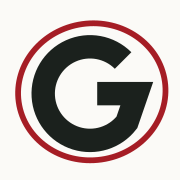
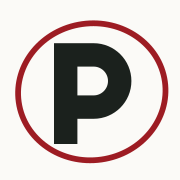
Rename the product to Polo
User-facing name, page and home-screen titles, PWA manifest, share-card
footer and wordmark now say Polo; the icon is a constructed P with the
pencil ring (placeholder until the designer's mark). Storage keys,
migrations and infrastructure names keep cardi-golf so no device loses
its session or unsynced scores. Docs, handoff and the logo brief follow.

Claude-Session: https://claude.ai/code/session_016392uNzETBrkWEz23abNrD

Changed region(s): [[0.1667, 0.1944, 0.8611, 0.8611]]

diff --git a/index.html b/index.html
@@ -10,7 +10,7 @@
     <meta name="color-scheme" content="light" />
     <meta name="apple-mobile-web-app-capable" content="yes" />
     <meta name="apple-mobile-web-app-status-bar-style" content="black-translucent" />
-    <meta name="apple-mobile-web-app-title" content="Cardi-Golf" />
+    <meta name="apple-mobile-web-app-title" content="Polo" />
     <meta name="mobile-web-app-capable" content="yes" />
     <meta
       name="description"
@@ -18,7 +18,7 @@
     />
     <link rel="icon" href="/favicon.svg" type="image/svg+xml" />
     <link rel="apple-touch-icon" href="/apple-touch-icon.png" />
-    <title>Cardi-Golf</title>
+    <title>Polo</title>
   </head>
   <body>
     <div id="root"></div>

diff --git a/src/components/primitives.tsx b/src/components/primitives.tsx
@@ -313,12 +313,11 @@ export function EventName({ name, tagline, logoUrl, small }: { name: string; tag
 }
 export function Wordmark({ size = 24 }: { size?: number }) {
   return (
-    <span className={s.wordmark} style={{ fontSize: size }} aria-label="Cardi-Golf">
-      Cardi-
-      <span className={s.wordmarkG}>
-        <span className={s.wordmarkRing} aria-hidden="true" />G
+    <span className={s.wordmark} style={{ fontSize: size }} aria-label={t.app.name}>
+      <span className={s.wordmarkInitial}>
+        <span className={s.wordmarkRing} aria-hidden="true" />P
       </span>
-      olf
+      olo
     </span>
   )
 }

diff --git a/vite.config.ts b/vite.config.ts
@@ -17,8 +17,8 @@ export default defineConfig({
       includeAssets: ['favicon.svg', 'apple-touch-icon.png', 'icons/*.png'],
       manifest: {
         id: '/',
-        name: 'Cardi-Golf',
-        short_name: 'Cardi-Golf',
+        name: 'Polo',
+        short_name: 'Polo',
         description:
           'Torneos de golf entre amigos: marcador en vivo, juegos, Calcutta y dinero.',
         lang: 'es-MX',

diff --git a/src/components/ShareCard.tsx b/src/components/ShareCard.tsx
@@ -75,7 +75,7 @@ function Card({ what }: { what: ShareKind }) {
   const footer = (
     <div className={styles.footer}>
       <span>{new Date().toLocaleDateString('es-MX', { day: 'numeric', month: 'short', year: 'numeric' })}</span>
-      <span className={styles.brand}>Cardi-Golf</span>
+      <span className={styles.brand}>{t.app.name}</span>
     </div>
   )
   if (what.kind === 'leaderboard') {

diff --git a/src/components/primitives.module.css b/src/components/primitives.module.css
@@ -555,13 +555,14 @@
   display: inline-flex;
   align-items: baseline;
 }
-.wordmarkG {
+.wordmarkInitial {
   position: relative;
   display: inline-block;
+  margin-left: 0.1em;
 }
 .wordmarkRing {
   position: absolute;
-  inset: -0.14em -0.1em -0.1em -0.08em;
+  inset: -0.14em -0.16em -0.1em -0.12em;
   border: 0.06em solid var(--under);
   border-radius: 50%;
   transform: rotate(-6deg);

diff --git a/src/screens/HomeScreen.tsx b/src/screens/HomeScreen.tsx
@@ -9,7 +9,7 @@ import { useAuth } from '../data/auth'
 import styles from './HomeScreen.module.css'
 
 /**
- * `/`: one line on what Cardi-Golf does, then the fastest way in. A returning
+ * `/`: one line on what Polo does, then the fastest way in. A returning
  * player sees their tournament first; everyone else sees the code field.
  * Organizers get one quiet link.
  */

diff --git a/src/styles/tokens.css b/src/styles/tokens.css
@@ -1,5 +1,5 @@
 /*
-  Cardi-Golf design tokens: direction A, "La tarjeta" (DESIGN_DIRECTION.md).
+  Polo design tokens: direction A, "La tarjeta" (DESIGN_DIRECTION.md).
   One source of truth for color, type, spacing (4/8), radius, borders,
   elevation and motion. Nothing outside this file may declare a color;
   src/styles/no-literal-colors.test.ts enforces it.

diff --git a/src/i18n/es-MX.ts b/src/i18n/es-MX.ts
@@ -9,7 +9,7 @@
  */
 export const t = {
   app: {
-    name: 'Cardi-Golf',
+    name: 'Polo',
     tagline: 'Torneos de golf entre amigos',
     description: 'Marcador en vivo, juegos, Calcutta y cuentas claras para torneos entre amigos.',
   },

diff --git a/docs/handoff.md b/docs/handoff.md
@@ -24,10 +24,15 @@ Each item says **what**, **the exact steps**, and **how Claude will verify it**.
 - ~~**Llaves para esta sesión.**~~ Diego pegó las llaves; quedaron en `.env.local` (ignorado por git). La `SUPABASE_SECRET_KEY` llegó truncada (32 de 41 caracteres); Claude tomó la real con el PAT desde la Management API. (2026-09-27)
 - ~~**Cuenta de organizador.**~~ Claude creó `gaxioladiego@gmail.com` como dueño del torneo **Ensayo** (sin contraseña conocida: entra con "¿Olvidaste tu contraseña?" o "Mándame un link por correo"). (2026-09-27)
 
+## Nombre nuevo: Polo
+
+- [ ] **Nombre del remitente de los correos.** La app ya dice «Polo», pero los correos de acceso (contraseña, link mágico) todavía llegan de «Cardi-Golf». Esta sesión no tiene las llaves para cambiarlo. Pasos: Supabase dashboard → proyecto **Cardi-Golf** → **Authentication → Emails → SMTP Settings** → en **Sender name** escribe `Polo` → **Save**. No toques los demás campos. Claude lo verifica pidiendo un correo de «¿Olvidaste tu contraseña?» y revisando el remitente (o hazlo tú y dime qué dice).
+- [ ] **Reinstalar la app.** Cuando esto llegue a `main`, borra la app de la pantalla de inicio y vuelve a agregarla desde https://golf.cardigan.mx: el nombre bajo el ícono debe decir «Polo» y el ícono es una «P» con el círculo del lápiz (provisional hasta que el diseñador entregue el logo; el brief está en `docs/logo-brief.md`).
+
 ## Rediseño
 
 - [x] ~~**Aprobar la dirección de diseño.**~~ Decidido 2026-09-27: dirección A, «La tarjeta»; PR #11 fusionado; la fase 2 (sistema) va a `main` conforme quede verde y la fase 3 (pantalla por pantalla) sigue en PRs separados.
-- [ ] **Probar el rediseño en tu teléfono y en la laptop.** Ya está todo en `main` (fase 2, el sistema, y fase 3, pantalla por pantalla: PRs #12 a #20). En https://golf.cardigan.mx borra la app de la pantalla de inicio y vuélvela a instalar: el ícono, el color de la barra y la pantalla de arranque deben ser los nuevos (una «G» con el círculo del lápiz sobre cartulina). Como jugador (`/t/ensayo`, PIN de Nico): En vivo con Puntos/Gross, la Tarjeta con el grupo en una pantalla y la cuadrícula, Juegos, un jugador (toca un hoyo para el «¿Cómo se calculó?»), Dinero. Como organizador (entra con tu correo): Mis torneos, el asistente de «Nuevo torneo» hasta el resumen del paso 3 (no lo crees si no quieres), y el Comité en la laptop (columna lateral, avisos en Tarjetas). En la tele: `/t/ensayo/tv` y `/t/ensayo/ceremonia`. Para ver todo con 60 jugadores y nombres largos: `/t/_/large60` y `/t/_/longnames`. Lo que decidí y lo que quedó pendiente está en `DESIGN_NOTES.md`; las capturas de antes y después en `design/shots/before` y `design/shots/after`. Responde con lo que no te convenza, pantalla por pantalla.
+- [ ] **Probar el rediseño en tu teléfono y en la laptop.** Ya está todo en `main` (fase 2, el sistema, y fase 3, pantalla por pantalla: PRs #12 a #20). En https://golf.cardigan.mx borra la app de la pantalla de inicio y vuélvela a instalar: el ícono, el color de la barra y la pantalla de arranque deben ser los nuevos (ahora una «P» con el círculo del lápiz sobre cartulina). Como jugador (`/t/ensayo`, PIN de Nico): En vivo con Puntos/Gross, la Tarjeta con el grupo en una pantalla y la cuadrícula, Juegos, un jugador (toca un hoyo para el «¿Cómo se calculó?»), Dinero. Como organizador (entra con tu correo): Mis torneos, el asistente de «Nuevo torneo» hasta el resumen del paso 3 (no lo crees si no quieres), y el Comité en la laptop (columna lateral, avisos en Tarjetas). En la tele: `/t/ensayo/tv` y `/t/ensayo/ceremonia`. Para ver todo con 60 jugadores y nombres largos: `/t/_/large60` y `/t/_/longnames`. Lo que decidí y lo que quedó pendiente está en `DESIGN_NOTES.md`; las capturas de antes y después en `design/shots/before` y `design/shots/after`. Responde con lo que no te convenza, pantalla por pantalla.
 
 ## Para probar M2 a M7 (no bloquea nada)
 
@@ -45,7 +50,7 @@ Each item says **what**, **the exact steps**, and **how Claude will verify it**.
 - [ ] **Capturar un hoyo.** Entra como Nico (PIN 1234) → pestaña **Tarjeta** (el día 1 del Ensayo ya está en juego, grupo 3) → mueve golpes/putts → "Guardar hoyo". Con otro teléfono (o pestaña) entrando como Diego O. verás cambiar **En vivo** en menos de 2 s. Prueba en modo avión: la app guarda "1 pendiente" y sincroniza al volver la señal.
 - [ ] **Ficha de jugador.** Toca cualquier fila del leaderboard: tarjeta por día, hándicap con "¿Cómo se calculó?", dinero si terminara ahora.
 
-- [ ] **Instalar la app en tu teléfono.** Abre https://cardi-golf.vercel.app en Safari (iPhone) o Chrome (Android) → Compartir / menú ⋮ → "Agregar a pantalla de inicio". Debe abrir a pantalla completa con el ícono verde de la bandera.
+- [ ] **Instalar la app en tu teléfono.** Abre https://cardi-golf.vercel.app en Safari (iPhone) o Chrome (Android) → Compartir / menú ⋮ → "Agregar a pantalla de inicio". Debe abrir a pantalla completa con el ícono de la «P» y el nombre «Polo».
 - [ ] **Entrar como jugador.** Código **ENSAYO** (o https://golf.cardigan.mx/t/ensayo) → toca una cara → PIN **1234** (todos los del Ensayo tienen ese PIN; Nico es admin y ve el Comité).
 - [ ] **Entrar como organizador.** https://golf.cardigan.mx/organizer/login → escribe tu correo → "¿Olvidaste tu contraseña?" → abre el correo en el teléfono → pon tu contraseña → verás "Mis torneos" con el Ensayo. Desde ahí, "Comité" para editar todo.
 - [ ] **Crear un torneo desde cero** con "Nuevo torneo" y comprobar que el cuadre de la bolsa se pone en rojo si cambias un premio.

diff --git a/docs/logo-brief.md b/docs/logo-brief.md
@@ -1,10 +1,10 @@
-# Logo brief: Cardi-Golf
+# Logo brief: Polo
 
 A brief for a designer. Everything they need to know about the product to draw its mark; nothing about the code.
 
 ## The product in one paragraph
 
-Cardi-Golf is a web app (installable on the phone) for running amateur golf tournaments among friends. An organizer creates a tournament, sets its rules and side games, and shares a code. Players join on their phones, enter their strokes hole by hole on the course, and everyone sees live leaderboards, side games (pairs, "the snake" for three-putts, fewest putts), a Calcutta auction at the dinner the night before, and exactly who owes whom at the end. A TV mode shows the boards at the villa and at the ceremony. Real money moves between friends based on these numbers, so the product has to feel **trustworthy and exact** before it feels fun.
+Polo is a web app (installable on the phone) for running amateur golf tournaments among friends. An organizer creates a tournament, sets its rules and side games, and shares a code. Players join on their phones, enter their strokes hole by hole on the course, and everyone sees live leaderboards, side games (pairs, "the snake" for three-putts, fewest putts), a Calcutta auction at the dinner the night before, and exactly who owes whom at the end. A TV mode shows the boards at the villa and at the ceremony. Real money moves between friends based on these numbers, so the product has to feel **trustworthy and exact** before it feels fun.
 
 The first tournament is a 12-player bachelor trip in Los Cabos (April 2027), but the product is a platform: every tournament is its own event with its own name, logo and accent color. **This brief is for the platform's logo, not for any one tournament's.**
 
@@ -18,7 +18,7 @@ The first tournament is a 12-player bachelor trip in Los Cabos (April 2027), but
 
 The app's design direction is called **"La tarjeta"**: the paper scorecard and the pencil. The interface looks like a well-printed club scorecard: near-white card stock, graphite ink, a ruled grid, tabular figures that line up. No cream, no gradients, no cards-and-shadows, no emoji.
 
-The one signature detail is **golf's pencil notation** on the scorecard: a hand-drawn **circle around a score means birdie**, a double circle an eagle, a square a bogey. Every golfer reads it instantly. It appears across the app, and the current placeholder icon is a geometric "G" with a red pencil circle around it. You're welcome to beat that idea, but the logo should feel like it belongs to that same scorecard-and-pencil world.
+The one signature detail is **golf's pencil notation** on the scorecard: a hand-drawn **circle around a score means birdie**, a double circle an eagle, a square a bogey. Every golfer reads it instantly. It appears across the app, and the current placeholder icon is a geometric "P" with a red pencil circle around it (it reads too much like a parking sign, which is one reason we need you). You're welcome to beat that idea, but the logo should feel like it belongs to that same scorecard-and-pencil world.
 
 **Palette the app already uses** (the logo should work with these; it doesn't have to use all of them):
 
@@ -44,14 +44,16 @@ The one signature detail is **golf's pencil notation** on the scorecard: a hand-
 
 - Golf clichés: crossed clubs, a ball on a tee, a flagstick with a waving flag, a swinging silhouette, a golf ball with dimples as the main idea.
 - Crests, shields, laurels, faux-heraldry.
-- Anything that reads as a clothing brand. "Cardi" comes from Cardigan, the founder's other app (a clinical-practice tool); the name is not about knitwear, so no sweaters, buttons or yarn.
+- **The other polos.** The name is "Polo" but the app is about golf: no horses, mallets or riders (the sport), no shirt collars or anything that echoes Ralph Lauren's polo player or other polo-shirt brands, no ice pops, no Marco Polo. It must read as golf, not as any of those.
+- A **P inside a circle**: that is a parking sign.
+- Anything that reads as a clothing brand.
 - Gradients, glossy effects, drop shadows, 3D.
 - Anything that only works in color or only works large.
 
 ## Deliverables
 
 1. **Symbol / app icon.** Must read at 16 px (favicon) and 29 px (iOS settings), and look finished at 180 px (iOS home screen) and 512 px (Android). Provide a version on a full-bleed square (the OS applies its own rounded mask; keep the mark inside the central 80% "safe zone" for Android maskable icons).
-2. **Wordmark** "Cardi-Golf" (keep the hyphen and that capitalization), horizontal.
+2. **Wordmark** "Polo" (capital P, the rest lowercase), horizontal.
 3. **Lockup** of symbol + wordmark.
 4. Each in: full color on card stock, one-color graphite, and reversed on the dark board surface `#0F2E22`.
 5. **Files:** SVG (outlined, no live text) for everything; PNG exports of the icon at 16, 32, 180, 192, 512 px and a 512 px maskable version.
@@ -66,6 +68,5 @@ The one signature detail is **golf's pencil notation** on the scorecard: a hand-
 
 ## Reference material we can share
 
-- Screenshots of the current app: `design/shots/after/` in the repo.
+- Screenshots of the current app (attached).
 - The live app: https://golf.cardigan.mx
-- The design direction in full: `DESIGN_DIRECTION.md`.

diff --git a/DESIGN_DIRECTION.md b/DESIGN_DIRECTION.md
@@ -1,10 +1,10 @@
-# Cardi-Golf — Design direction (phase 1)
+# Polo (formerly Cardi-Golf) — Design direction (phase 1)
 
 Two directions, both grounded in golf's own material culture rather than app aesthetics. One recommendation. The living style guide at `/design` renders the recommended one.
 
 ## Givens (both directions)
 
-- **Product and event.** Cardi-Golf is the product; every tournament is an event with its own name. The product chrome (tab bar, headers, controls, tables) is consistent and quiet: ink on card stock, one accent. The event name is the only place expressive typography appears, and each event can carry one accent from a curated set. Nothing else changes per event.
+- **Product and event.** Polo is the product; every tournament is an event with its own name. The product chrome (tab bar, headers, controls, tables) is consistent and quiet: ink on card stock, one accent. The event name is the only place expressive typography appears, and each event can carry one accent from a curated set. Nothing else changes per event.
 - **Numbers are the hero.** Tabular lining figures everywhere a score or an amount appears. A true minus sign (−) for under par, "E" for even, `T3` for ties. Right-aligned numeric columns that line up to the pixel.
 - **Light mode first**, designed for sunlight: AA everywhere, AAA for figures on the leaderboard and scorecard. TV and Ceremonia use a dedicated board surface (deep green, off-white figures), which is a *surface*, not a dark mode.
 - **Convention over invention:** red for under par, blue for over par (The Open), plain ink for par. Pencil notation on the scorecard: circle = birdie, double circle = eagle or better, square = bogey, double square = double or worse.

diff --git a/CLAUDE.md b/CLAUDE.md
@@ -1,4 +1,6 @@
-# Cardi-Golf
+# Polo (formerly Cardi-Golf)
+
+> **Name (2026-09-28):** the product is called **Polo**. Every user-facing string, the wordmark, the PWA name and the icon say Polo. Infrastructure keeps the old name on purpose: the repo `cardiganapps-ui/Cardi-Golf`, the Vercel project `cardi-golf`, the Supabase project and org, the R2 bucket, the `golf.cardigan.mx` / `cardi-golf.vercel.app` hosts, and client storage keys (`cardi-golf:*`, the `cardi-golf-outbox` IndexedDB) so no device loses its session or unsynced scores. Where the text below says "Cardi-Golf" about the product, read Polo.
 
 ## Build brief for Claude Code
 
@@ -664,7 +666,7 @@ Three ways to load a course, one place to decide how each player is handicapped.
 
 The look comes from the tournament's printed rules sheet: beachy, editorial, premium. It sits close to Cardigan's warm cream/teal and Fraunces aesthetic, but it's its own brand.
 
-**Logo:** per tournament (`tournaments.logo_url`); shown on Entrar, the headers, TV mode, and share cards. The platform's own mark is a simple text wordmark "Cardi-Golf". `assets/nacho-logo.png` (an embroidered patch cut out on a transparent background) is the first tournament's logo: seed it into that tournament's storage, don't bake it into the shell.
+**Logo:** per tournament (`tournaments.logo_url`); shown on Entrar, the headers, TV mode, and share cards. The platform's own mark is a simple text wordmark "Polo" (formerly "Cardi-Golf"). `assets/nacho-logo.png` (an embroidered patch cut out on a transparent background) is the first tournament's logo: seed it into that tournament's storage, don't bake it into the shell.
 
 **Color tokens**
 ```css
